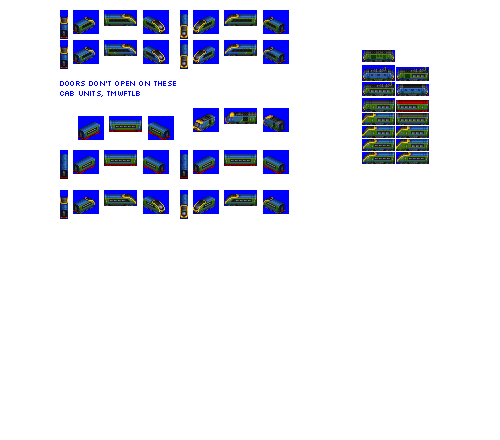
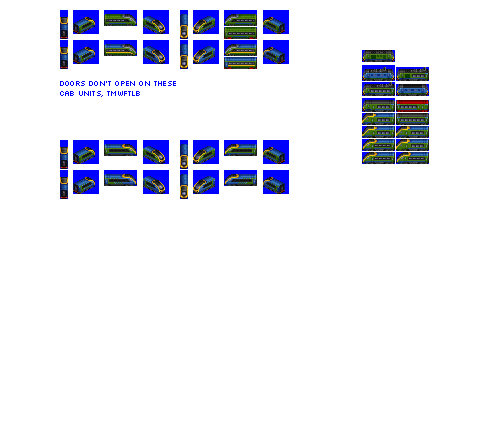
Change: WIP on Gloaming sprites

diff --git a/src/vehicles/gloaming_middle_passenger.py b/src/vehicles/gloaming_middle_passenger.py
@@ -21,7 +21,7 @@ def main(roster_id):
         type=ElectricHighSpeedPaxUnit,
         weight=54,
         spriterow_num=0,
-        chassis="jacobs_solid_express_32px",
+        chassis="4_axle_solid_express_32px",
         repeat=2,
     )
 
